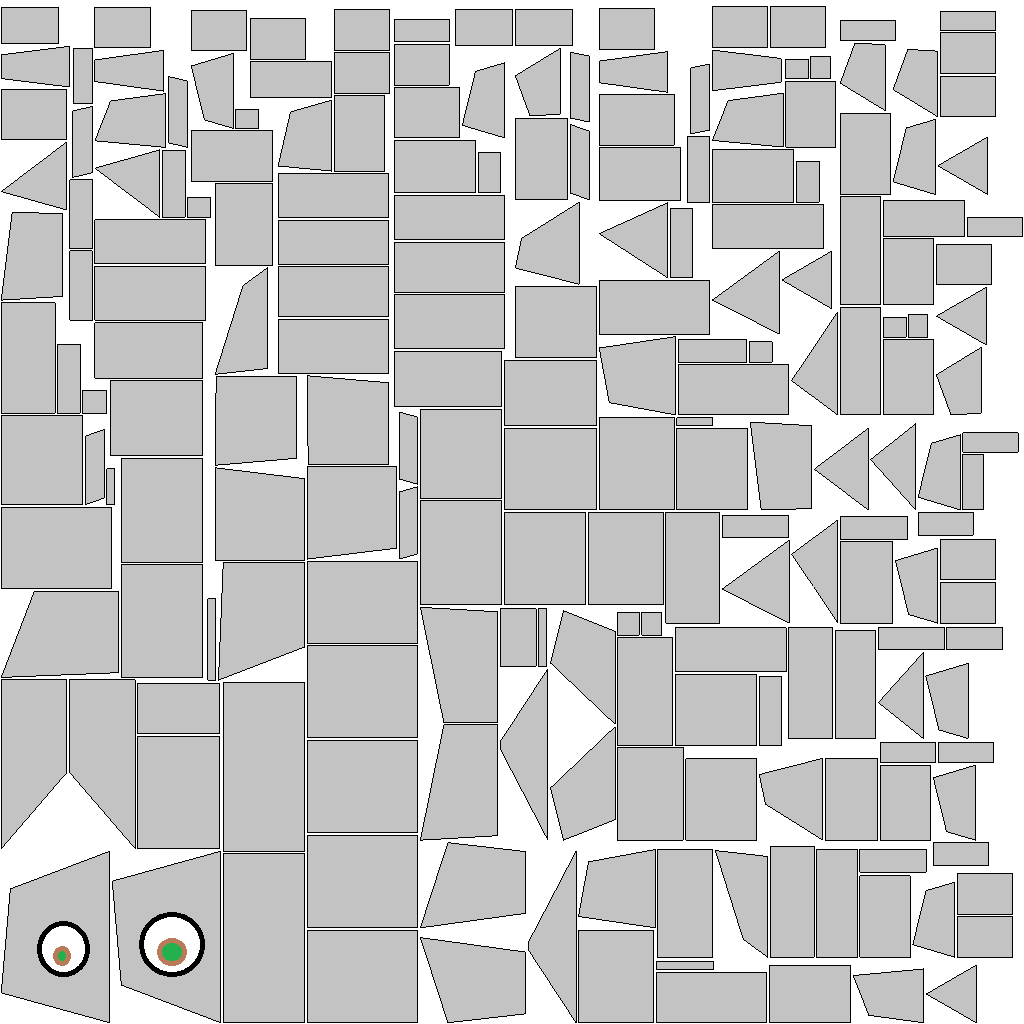
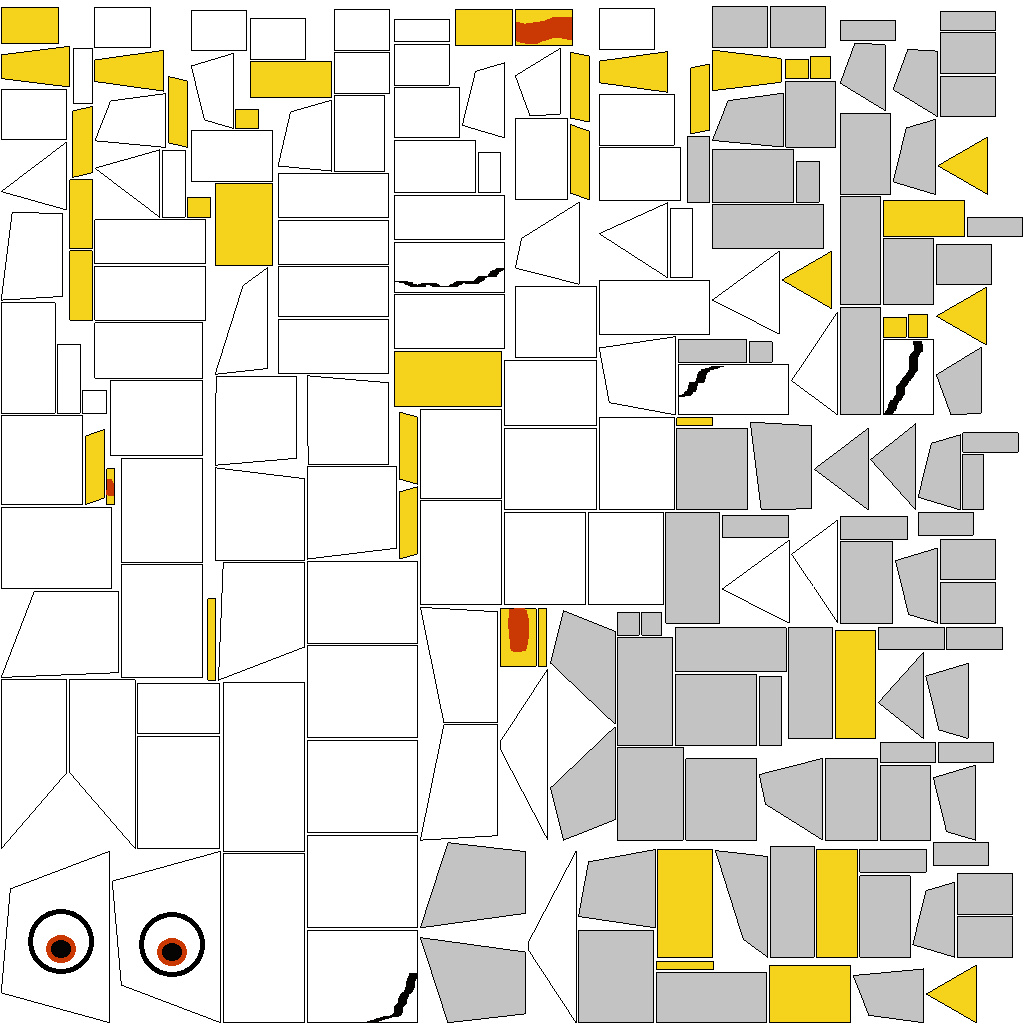
updated the volumes
added a function increase/decease the volumes

adjusted the starting volumes

updated the chicken texture

diff --git a/src/engine/audio_manger.cpp b/src/engine/audio_manger.cpp
@@ -3,6 +3,7 @@
 audio_manger::audio_manger() {
 	draw_speaker_loc = true;
 	cam = NULL;
+	volume = 1.0f;
 }
 
 audio_manger::~audio_manger() {
@@ -165,7 +166,7 @@ void audio_manger::create_sound_data() {
 		std::cout << "there was a problem importing space background loop" << std::endl;
 	}
 	else {
-		temp_sound_data->sound_data->setDefaultVolume(1.0f);
+		temp_sound_data->sound_data->setDefaultVolume(0.1f);
 		background_music.push_back(temp_sound_data);
 	}
 
@@ -195,4 +196,24 @@ std::vector<glm::vec3> audio_manger::get_speaker_locations() {
 	}
 
 	return output;
+}
+
+
+void audio_manger::increase_volume() {
+	volume += 0.1;
+	if (volume > 1.0f) {
+		volume = 1.0f;
+	}
+	std::cout << "volume is " << volume << std::endl;
+	engine->setSoundVolume(volume);
+}
+
+void audio_manger::decrease_volume() {
+	volume -= 0.1;
+	if (volume < 0.0f) {
+		volume = 0.0f;
+	}
+	std::cout << "volume is " << volume << std::endl;
+	engine->setSoundVolume(volume);
+
 }

diff --git a/src/engine/main.cpp b/src/engine/main.cpp
@@ -231,6 +231,12 @@ void key_board_input(GLFWwindow* window, int key, int scancode, int action, int 
         World->play_sound_effect(3);
     if (key == GLFW_KEY_0 && action == GLFW_RELEASE)
         World->play_sound_effect(4);
+
+    if (key == GLFW_KEY_O && action == GLFW_RELEASE)
+        World->increase_background_music();
+
+    if (key == GLFW_KEY_L && action == GLFW_RELEASE)
+        World->decrease_background_music();
 }
 
 

diff --git a/src/engine/audio_manger.h b/src/engine/audio_manger.h
@@ -43,6 +43,9 @@ public:
 	void init();
 	void play_sound_effect(int i);
 	void play_background_music(int i);
+	
+	void increase_volume();
+	void decrease_volume();
 
 	void play_3D_sound(effect_names soun, glm::vec3 pos);
 
@@ -56,6 +59,7 @@ private:
 
 	Camera *cam;
 
+	float volume;
 	irrklang::ISoundEngine* engine;// = createIrrKlangDevice();
 	std::string audio_loc;
 

diff --git a/src/engine/world.h b/src/engine/world.h
@@ -43,6 +43,9 @@ public:
 	void play_sound_effect(int i) { ADM->play_sound_effect(i); }
 	void play_background_music(int i) { ADM->play_background_music(i); }
 
+	void increase_background_music() { ADM->increase_volume(); }
+	void decrease_background_music() { ADM->decrease_volume(); }
+
 	//getters
 
 	//setters

diff --git a/src/engine/world.cpp b/src/engine/world.cpp
@@ -6,7 +6,7 @@ world::world() {
     single = false;
     update_lights = true;
 
-    render_text = true;
+    render_text = false;
     draw_speakers = false;
     draw_lights_debug = false;
 }
